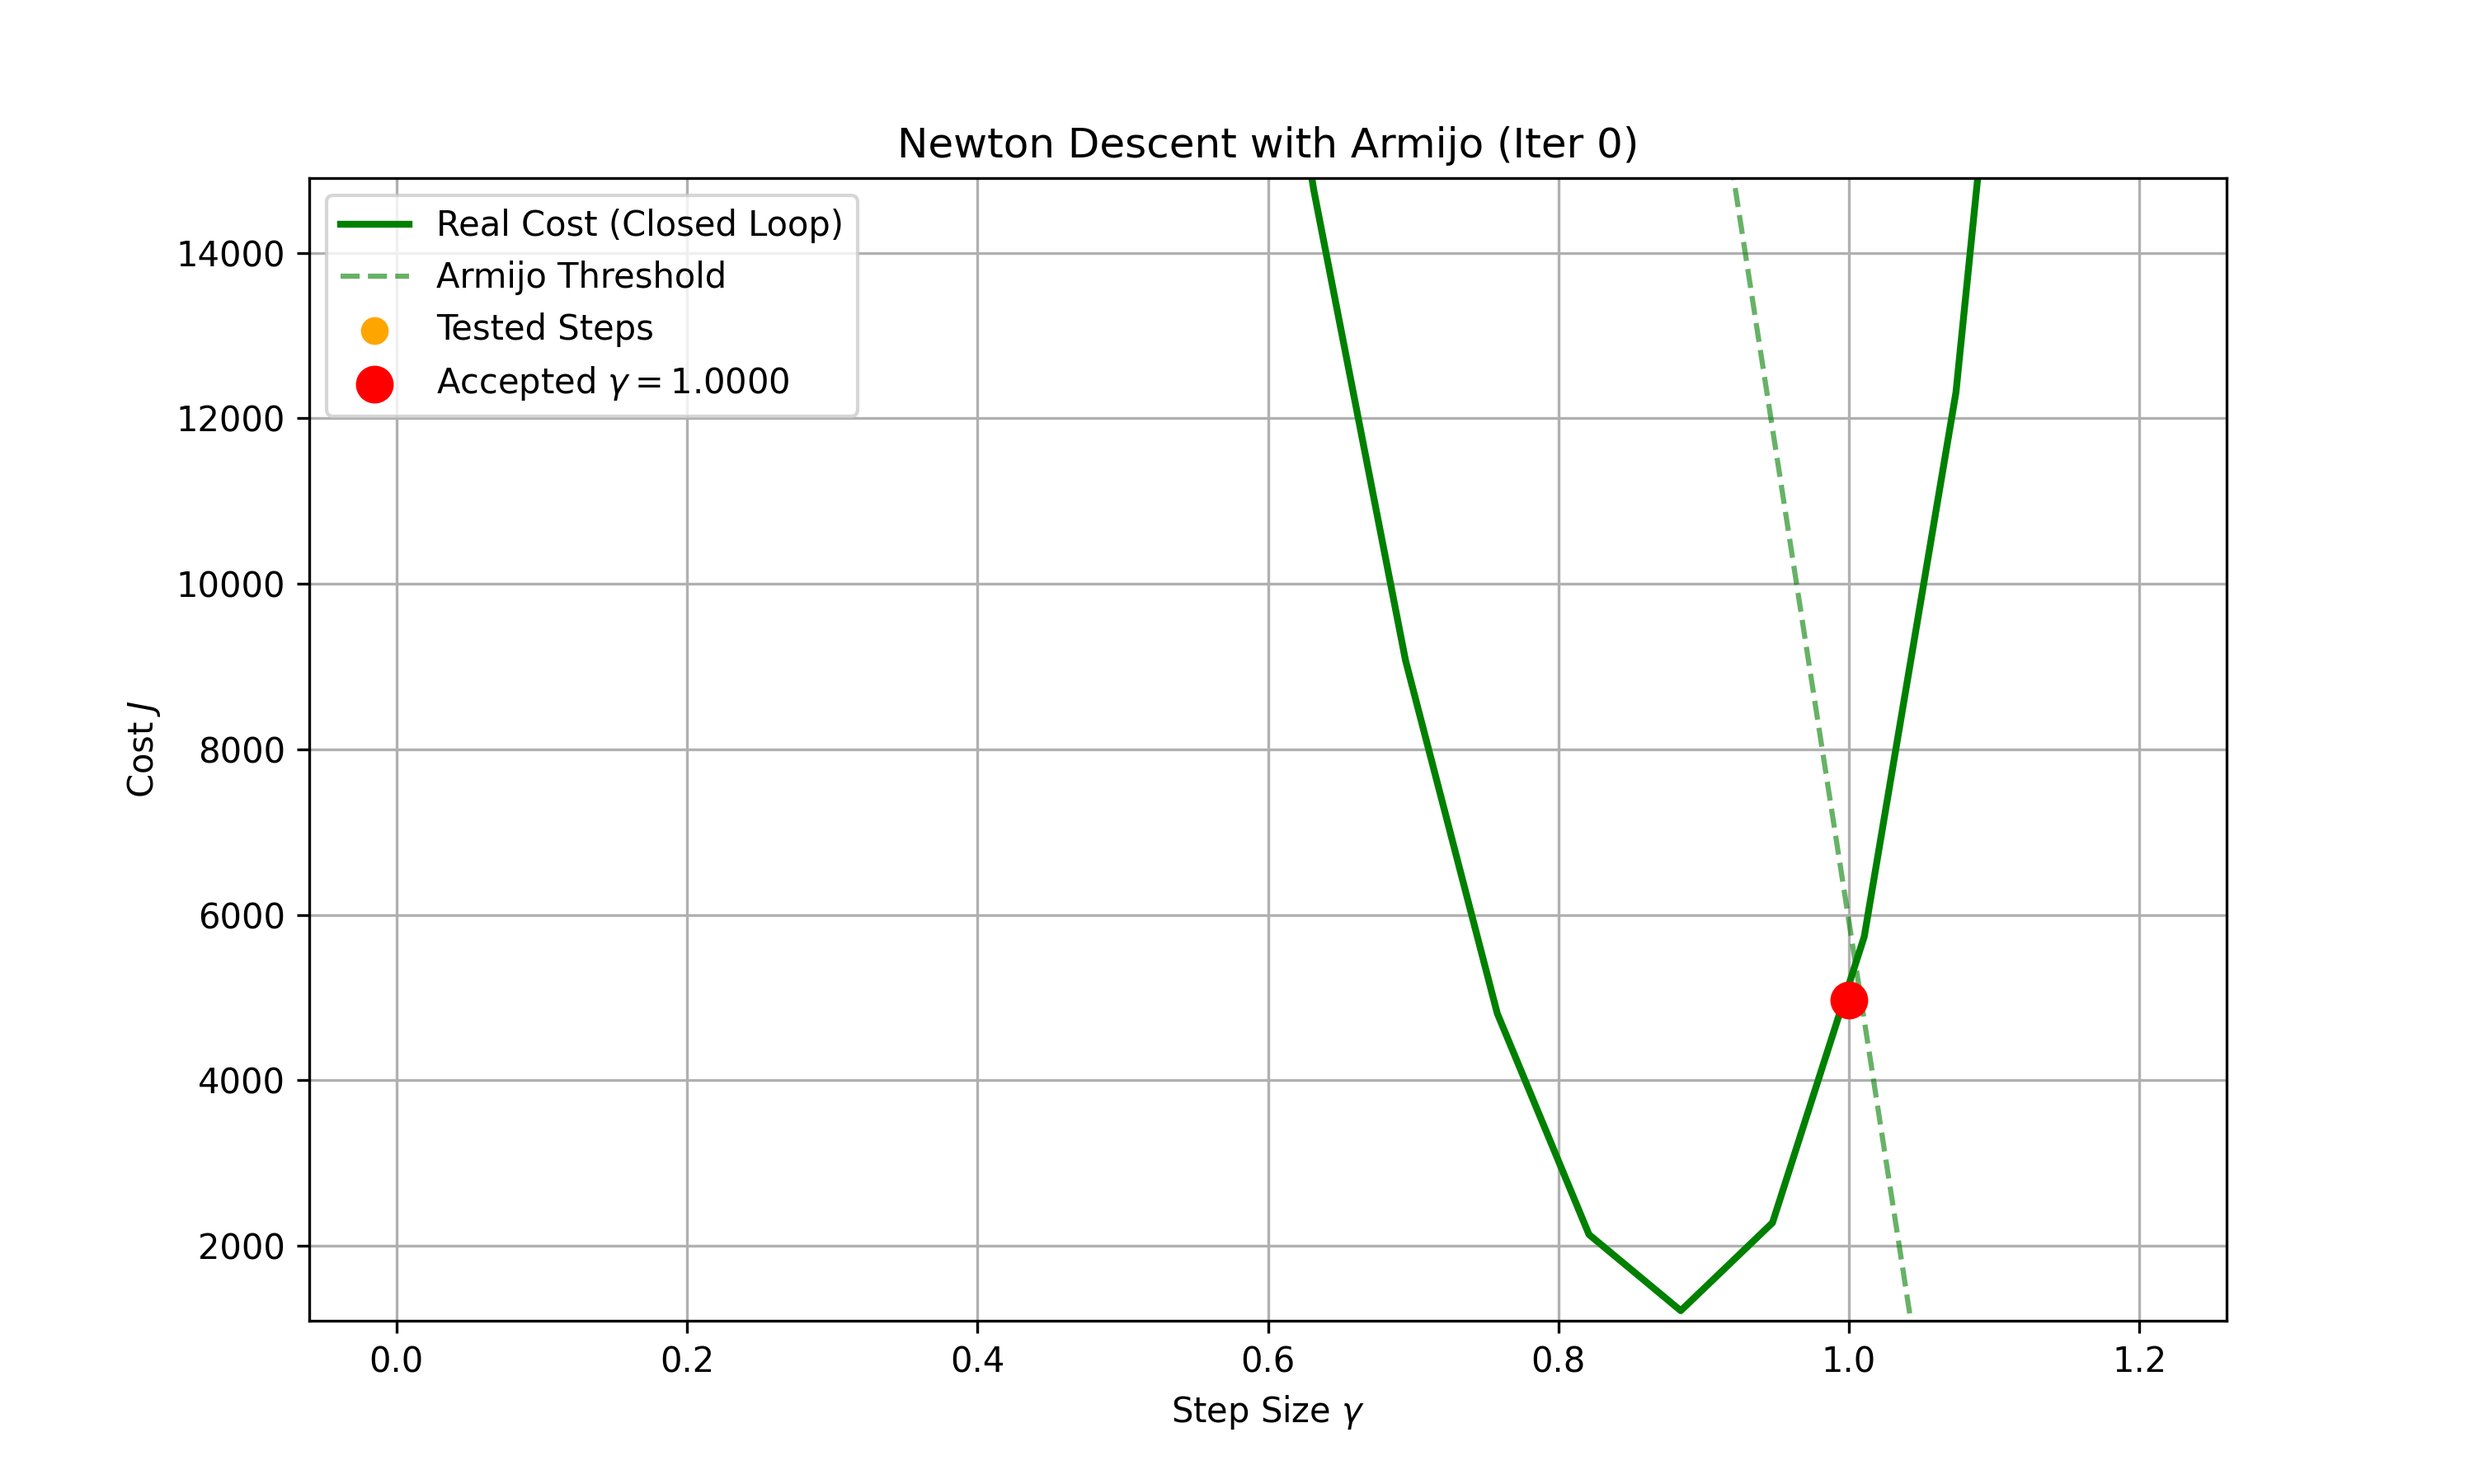
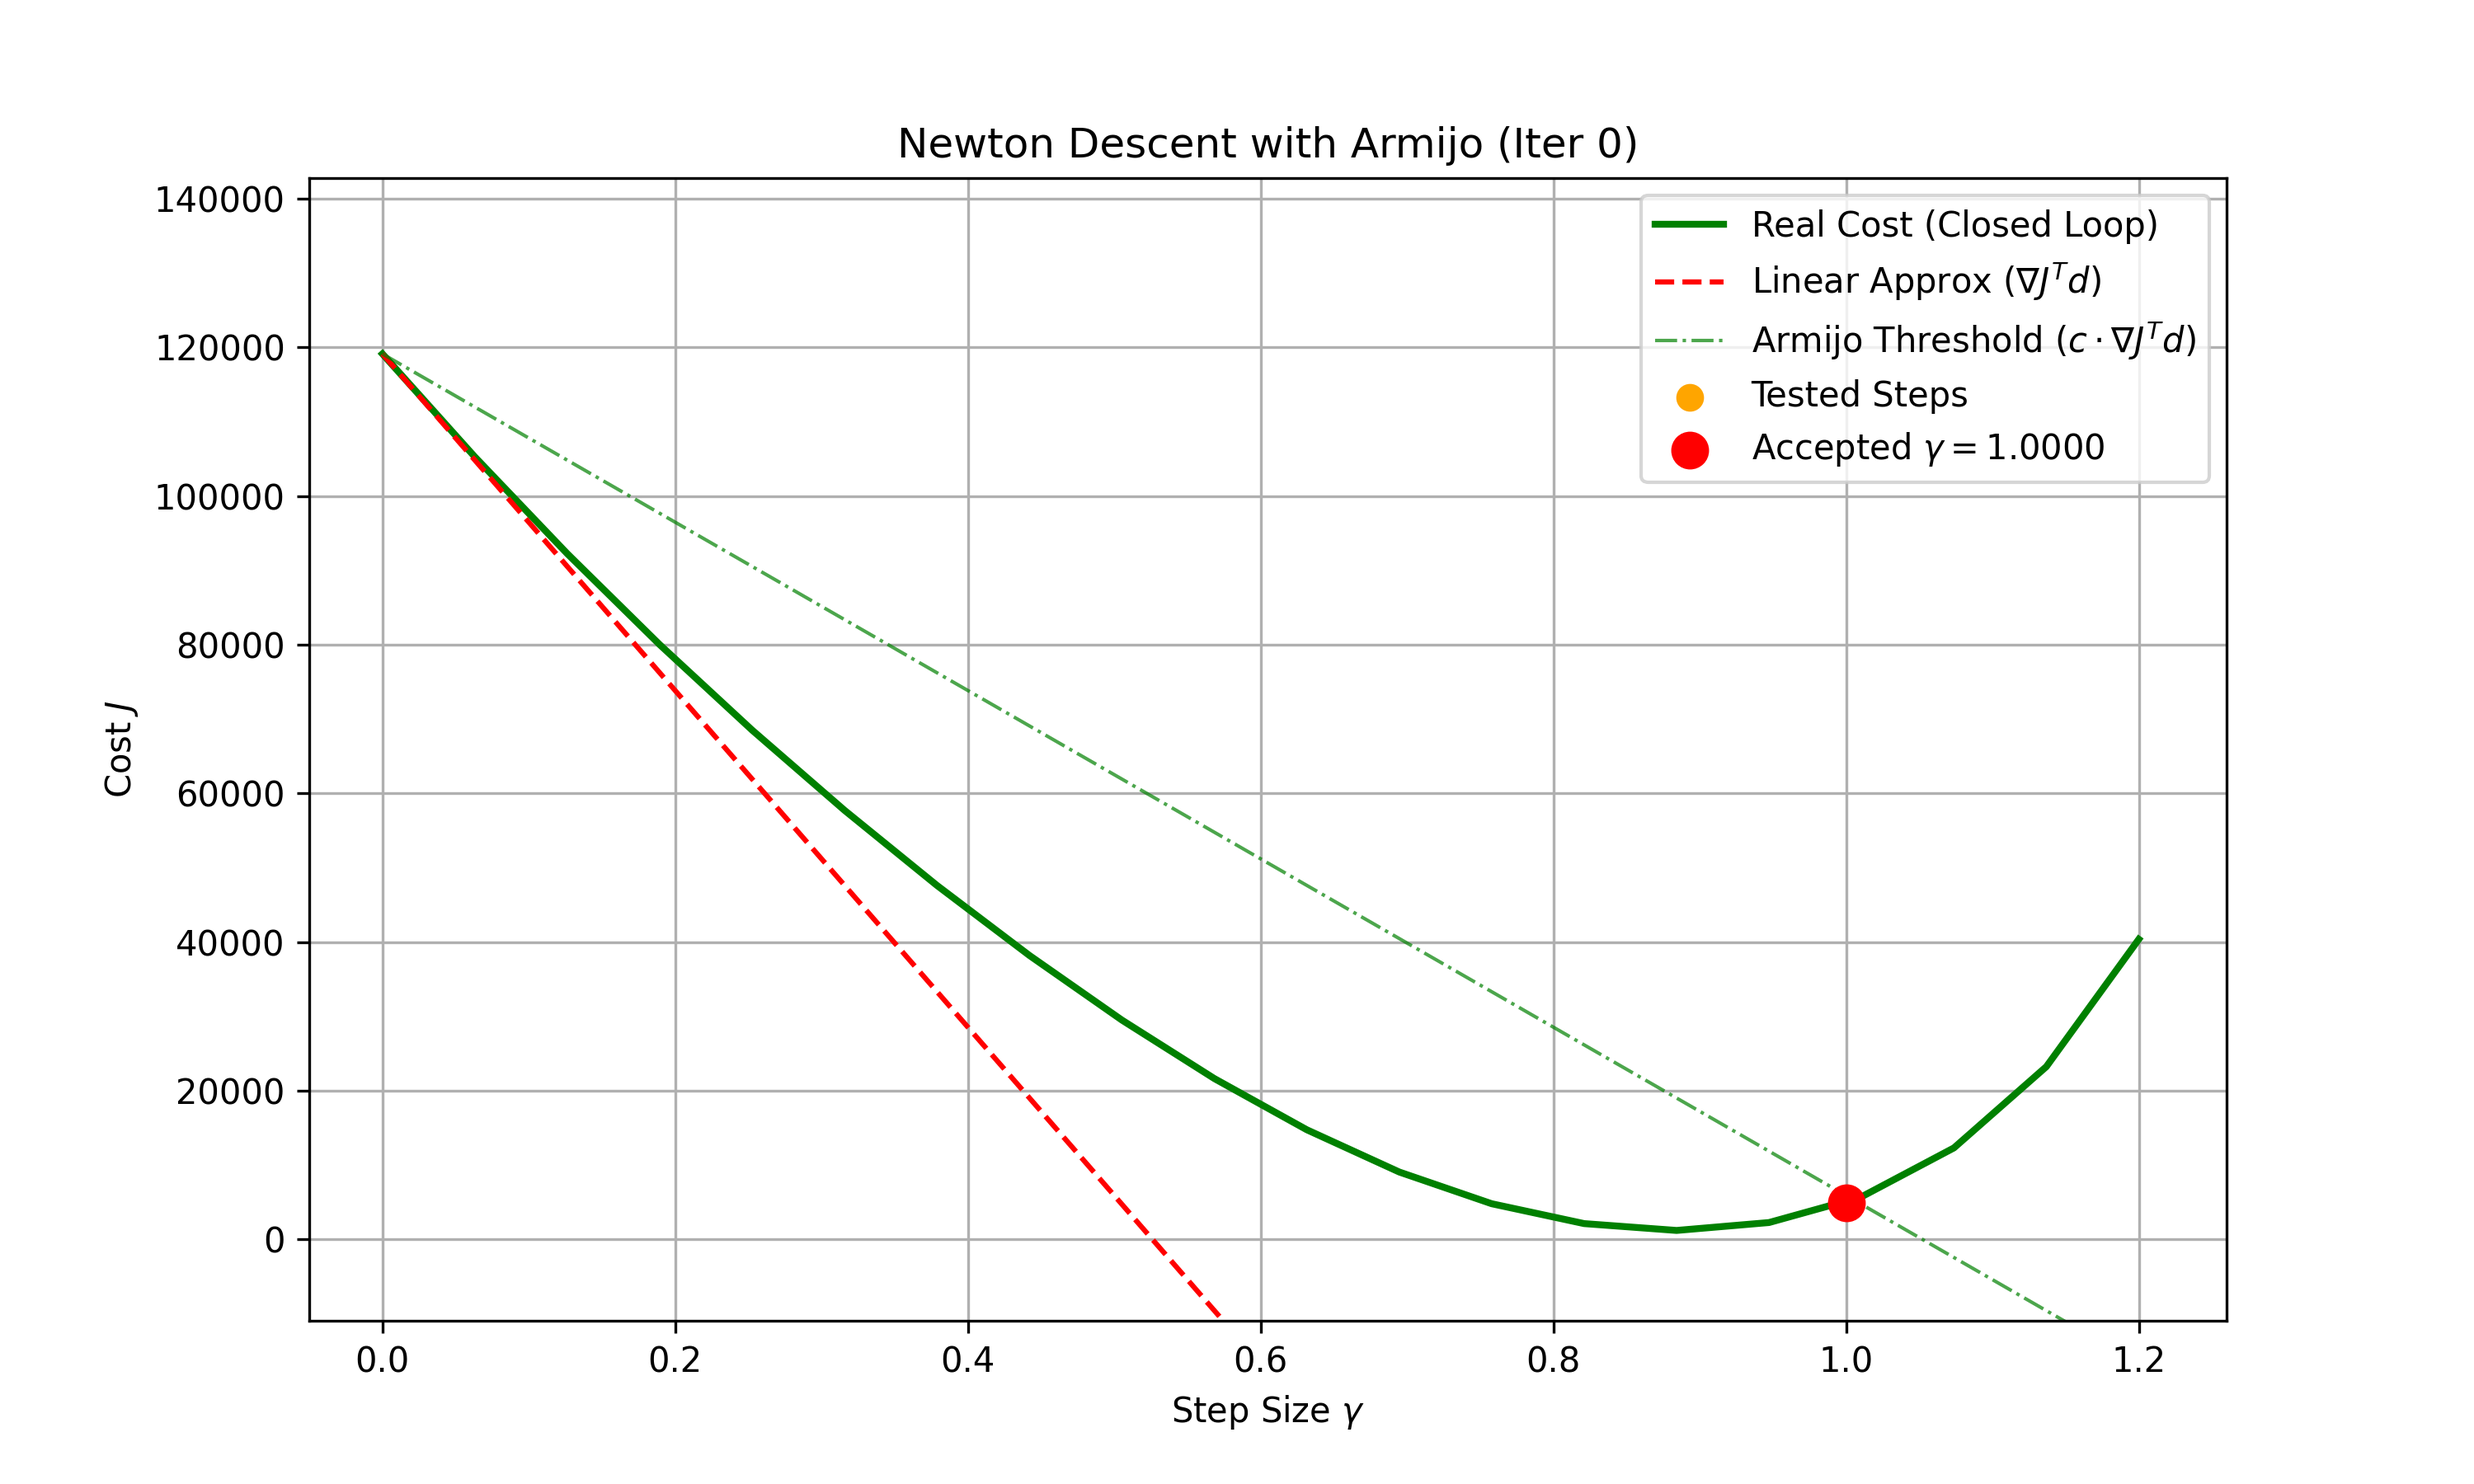
Completati plot per armijo in entrambi i main

diff --git a/main_task2.py b/main_task2.py
@@ -161,6 +161,7 @@ for kk in range(max_iters):
         # Initializing lists to store later the real cost and the armijo threshold line
         costs_test = []
         armijo_thresholds = []
+        linear_approximations = []
         
         # Simulating the exact cost that the algorithm would see
         for g_val in gammas_test:
@@ -201,11 +202,19 @@ for kk in range(max_iters):
             thresh = cost_current + cc * g_val * slope 
             armijo_thresholds.append(thresh)
 
+            # Tangent line
+            lin_approx = cost_current + 1.0 * g_val * slope 
+            linear_approximations.append(lin_approx)
+
+
+
         # Saving curve data
         armijo_data_iter['iter'] = kk
         armijo_data_iter['gammas'] = gammas_test
         armijo_data_iter['real_costs'] = costs_test
         armijo_data_iter['thresholds'] = armijo_thresholds
+        armijo_data_iter['linear_approx'] = linear_approximations
+        
         
         # Placeholder for tested points
         armijo_data_iter['tested_gammas'] = []
@@ -502,6 +511,7 @@ if len(global_armijo_data) > 0:
         gammas = data['gammas']
         real_costs = data['real_costs']
         lines = data['thresholds']
+        tangents = data.get('linear_approx')
         
         acc_g = data['accepted_gamma']
         acc_c = data['accepted_cost']
@@ -512,17 +522,25 @@ if len(global_armijo_data) > 0:
         
         plt.figure(figsize=(10, 6))
         
-        # 1. Curves
+       # 1. Real cost curve
         plt.plot(gammas, real_costs, 'g-', linewidth=2, label='Real Cost (Closed Loop)')
-        plt.plot(gammas, lines, 'g--', alpha=0.6, label='Armijo Threshold')
-        
-        # 2. Tested Points (Orange Scatter)
+
+       # 2. Linear Approximation (Tangent) - Red Dashed
+        if tangents is not None:
+             plt.plot(gammas, tangents, 'r--', linewidth=1.5, label=r'Linear Approx ($\nabla J^T d$)')
+
+        # 3. Armijo Threshold - Green Dashed (Thinner)
+        plt.plot(gammas, lines, 'g-.', linewidth=1, alpha=0.7, label=r'Armijo Threshold ($c \cdot \nabla J^T d$)')
+
+        # 4. Tested Points (Orange Scatter)
         if len(tested_g) > 0:
             plt.scatter(tested_g, tested_c, color='orange', s=50, zorder=5, label='Tested Steps')
         
-        # 3. Accepted Point (Red Scatter)
+        # 5. Accepted Point (Red Scatter)
         if acc_g is not None:
             plt.scatter(acc_g, acc_c, color='red', s=100, zorder=6, label=fr'Accepted $\gamma={acc_g:.4f}$')
+        
+
             
         plt.title(f'Newton Descent with Armijo (Iter {iter_idx})')
         plt.xlabel(r'Step Size $\gamma$')
@@ -530,10 +548,39 @@ if len(global_armijo_data) > 0:
         plt.grid(True)
         plt.legend(loc='best')
         
-        # Zoom if costs are very high at the beginning
-        if acc_c is not None:
-             # Center the view in the interested zone (low gamma)
-             plt.ylim(min(real_costs) * 0.9, acc_c * 3.0) 
+        # --- Zoom to see the tangent line ---
+        
+        # Determining the plot bounds using only the real cost curve
+        valid_costs = list(real_costs)
+        valid_costs.append(cost_current)
+        
+        # Filtering possible values as NaN o inf 
+        valid_costs = [c for c in valid_costs if np.isfinite(c)]
+        
+        if len(valid_costs) > 0:
+            y_data_min = min(valid_costs)
+            y_data_max = max(valid_costs)
+            
+            # Computing the range variation of real cost values
+            y_span = y_data_max - y_data_min
+            if y_span == 0: y_span = 1.0 # to avoid crashes on flatten plots
+            
+            # Defining margins
+            #    - Lower margin: 10% of range variation (so it doesn't touch the ground)
+            #    - Upper margin: 20% of range variation (so it's wider, to see better the tangent line)
+            margin_bottom = 0.1 * y_span
+            margin_top = 0.2 * y_span
+            
+            # If we accept a point that is very low (lower than the tested minimum), we enlarge the space at the end
+            if acc_c is not None and acc_c < y_data_min:
+                y_data_min = acc_c
+            
+            # Defining bounds for Y
+            plt.ylim(y_data_min - margin_bottom, y_data_max + margin_top)
+            
+            # Defining bounds for X
+            max_x = max(gammas) if len(gammas) > 0 else 1.2
+            plt.xlim(-0.05, max_x * 1.05)   # We start a little bit earlier than the 0 (i.e. -0.05) to better see y-axis and the intercept line
 
         plt.savefig(os.path.join(output_folder,f'Task2_Armijo_LineSearch_Iter_{iter_idx}.png'), dpi=300)
         plt.show()

diff --git a/main_task1.py b/main_task1.py
@@ -547,49 +547,39 @@ if len(global_armijo_data) > 0:
         plt.grid(True)
         plt.legend(loc='best')
         
-        # --- ZOOM INTELLIGENTE (Versione Tangenza Visibile) ---
+        # --- Zoom to see the tangent line ---
         
-        # 1. Determiniamo i limiti basandoci SOLO sulla curva di Costo Reale
-        #    Ignoriamo quanto in basso scende la tangente rossa per gamma grandi.
-        #    Consideriamo tutti i costi calcolati + il costo iniziale.
+        # Determining the plot bounds using only the real cost curve
         valid_costs = list(real_costs)
         valid_costs.append(cost_current)
         
-        # Filtriamo eventuali valori nan o inf per sicurezza
+        # Filtering possible values as NaN o inf 
         valid_costs = [c for c in valid_costs if np.isfinite(c)]
         
         if len(valid_costs) > 0:
             y_data_min = min(valid_costs)
             y_data_max = max(valid_costs)
             
-            # Calcoliamo l'escursione dei costi reali
+            # Computing the range variation of real cost values
             y_span = y_data_max - y_data_min
-            if y_span == 0: y_span = 1.0 # Evita crash su grafici piatti
+            if y_span == 0: y_span = 1.0 # to avoid crashes on flatten plots
             
-            # 2. Impostiamo i margini
-            #    - Margine INFERIORE: 10% dello span (per non toccare il fondo)
-            #    - Margine SUPERIORE: 20% dello span (più ampio, per vedere bene la tangenza in alto)
+            # Defining margins
+            #    - Lower margin: 10% of range variation (so it doesn't touch the ground)
+            #    - Upper margin: 20% of range variation (so it's wider, to see better the tangent line)
             margin_bottom = 0.1 * y_span
             margin_top = 0.2 * y_span
             
-            # Se il punto accettato è molto basso (più del minimo testato), allarghiamo sotto
+            # If we accept a point that is very low (lower than the tested minimum), we enlarge the space at the end
             if acc_c is not None and acc_c < y_data_min:
                 y_data_min = acc_c
             
-            # Impostiamo i limiti Y
-            # In questo modo la tangente rossa sarà visibile all'inizio (tangenza) 
-            # e poi verrà "tagliata" quando scende troppo, lasciando il focus sulla parabola verde.
+            # Defining bounds for Y
             plt.ylim(y_data_min - margin_bottom, y_data_max + margin_top)
             
-            # 3. Impostiamo i limiti X
-            #    Partiamo leggermente prima di 0 (-0.05) per vedere bene l'asse Y e l'intercetta
+            # Defining bounds for X
             max_x = max(gammas) if len(gammas) > 0 else 1.2
-            plt.xlim(-0.05, max_x * 1.05)
-        # Zoom if costs are very high at the beginning
-        #if acc_c is not None:
-             
-             # Center the view in the interested zone (low gamma)
-             #plt.ylim(min(real_costs) * 0.9, acc_c * 3.0) 
+            plt.xlim(-0.05, max_x * 1.05)   # We start a little bit earlier than the 0 (i.e. -0.05) to better see y-axis and the intercept line
 
         plt.savefig(os.path.join(output_folder,f'Task1_Armijo_LineSearch_Iter_{iter_idx}.png'), dpi=300)
         plt.show()
